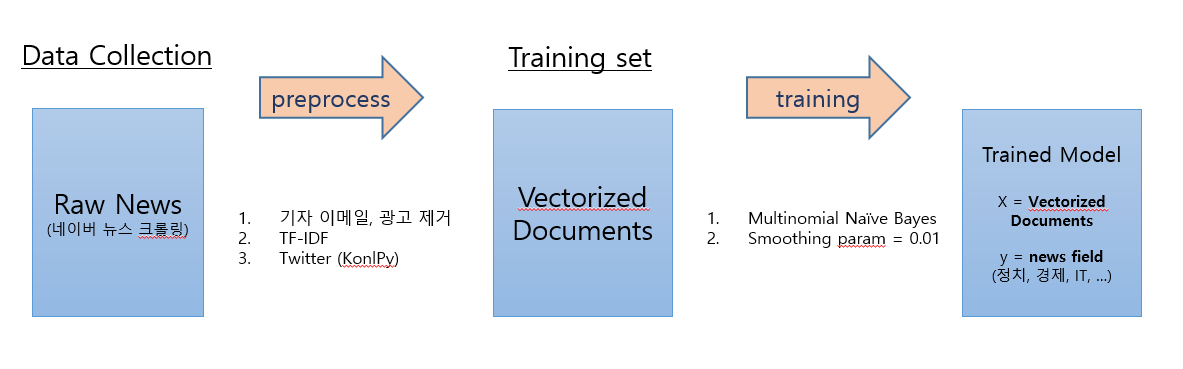
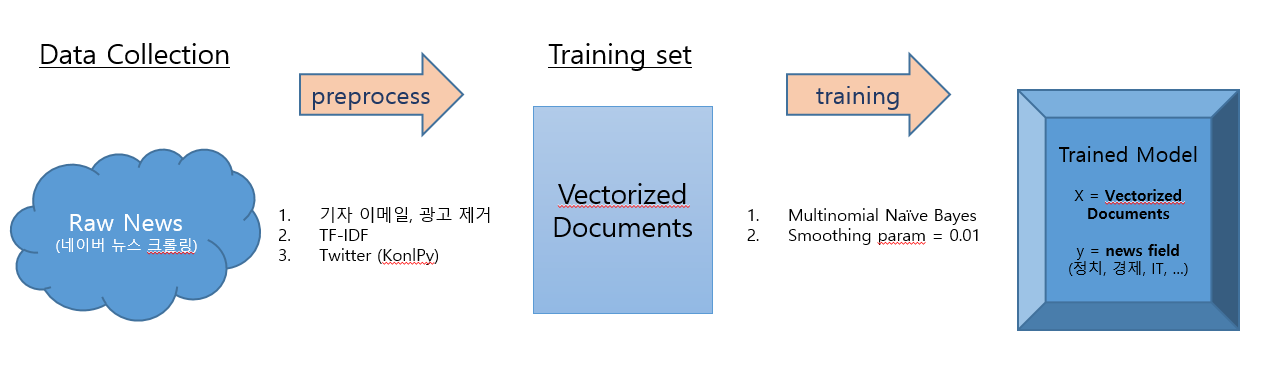
180507 Updated summary

diff --git a/Readme.md b/Readme.md
@@ -2,28 +2,16 @@
 > 유저가 특정 키워드로 뉴스검색 시 자주 보던 분야 순으로 검색결과 제공
 
 ## How it works
-> #### 0. 데이터 수집
-> #### 1. 모델훈련
-> #### 2. 뉴스검색 + 뉴스랭크
-> #### 3. AWS, flask와 연동
+> #### 0. Data Collection
+> #### 1. Model Training
+> #### 2. News Rank
+> #### 3. AWS with Flask
+
+## Data Collection + Model Training
 
 <img src='img/news_rec.png'>
 
 -----------------
-
-## 데이터 수집
-> #### 0. X = TF-IDF된 뉴스, y = 뉴스분야 (정치, 세계, etc..)
-> #### 1. training set = 네이버 뉴스 (셀레니움 크롤링)
-> #### 2. test set = training set보다 최신의 네이버 뉴스 (셀레니움 크롤링)
-> #### 3. 크롤링한 뉴스에 대해 전처리 (기자 이메일, 각종 광고문구 제거 etc)
-> #### 4. 전처리된 뉴스들을 MySQL에 저장
-
-## 모델훈련
-> #### 0. DB에서 뉴스 불러옴
-> #### 1. Multinomial Naive Bayes + TF-IDF + Twitter tagger로 훈련
-> #### 2. CV 수행하여 confusion matrix, clf report로 overfitting됬는지 확인하고 결과저장
-> #### 3. test set을 이용하여 performance check
-> #### 4. 훈련된 모델 pickle로 저장
 
 ## 뉴스검색 + 뉴스랭크
 > #### 0. 유저로부터 웹에서 키워드를 입력받음	
